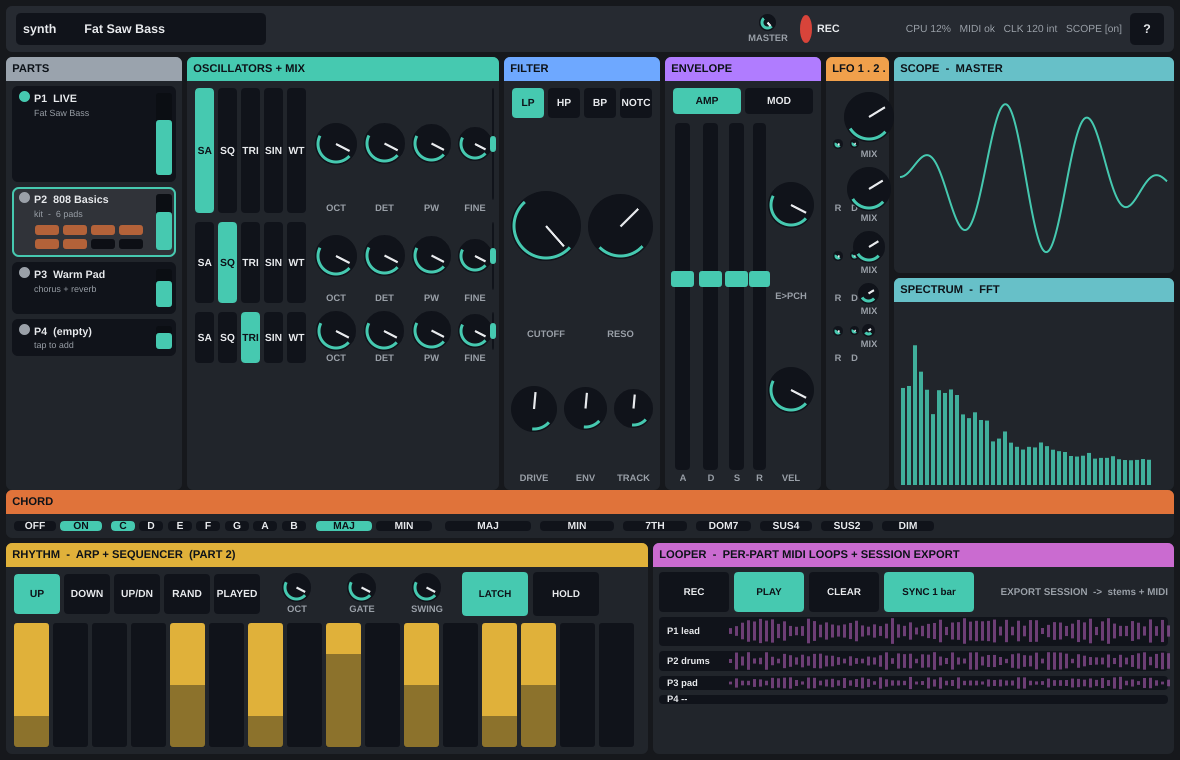
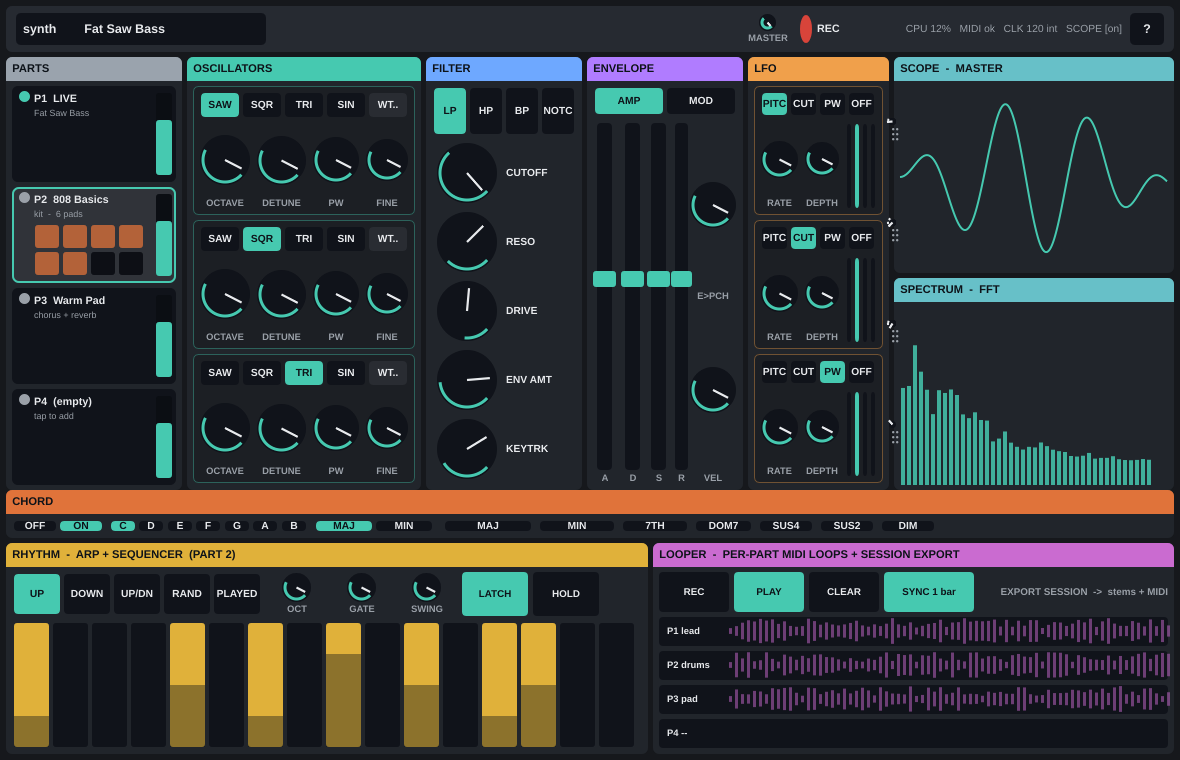
R2 mockup rev4: per-section redesign from sign-off notes
- Parts rail: even-height cells (fixed a shrinking-row bug that recomputed
  height each iteration).
- Oscillators: one sub-box PER oscillator; wave shapes as touch buttons across
  the top (SAW/SQR/TRI/SIN/WT.., WT opens a wavetable picker); OCTAVE/DETUNE/
  PW/FINE knobs below with clearer labels.
- Filter: type buttons 50% taller; all knobs stacked VERTICALLY at equal size
  with labels beside (Cutoff/Reso/Drive/Env Amt/Keytrk).
- Envelope: unchanged.
- LFO: one sub-box PER LFO (like oscillators); DEST selector horizontal across
  the top with full labels (Pitch/Cutoff/PW/Off); Rate/Depth + Shape below.
- FX: reverted to the real draggable panel - Chorus/Delay/Reverb/Width blocks
  (grip handle + on/off) each with their own knobs + NUMERIC values, recoloured
  to match (Chorus rate/depth/mix, Delay time/fbk/png/mix, Reverb size/damp/
  width/mix, Width).
- Chord row, Scope/FFT, RHYTHM sequencer, LOOPER lanes unchanged.
docs/mockup-*.png regenerated.

diff --git a/tests/plugin/test_layout_mockup.cpp b/tests/plugin/test_layout_mockup.cpp
@@ -1,17 +1,22 @@
 // ============================================================================
-// R2 layout MOCKUP (non-functional) - revision 3. Direction from sign-off:
-// denser (more params per section) + creative + more COMPACT synth, freeing real
-// estate for the RHYTHM (arp + 16-step sequencer) and LOOPER (per-part loop lanes)
-// zones. Filled tinted section headers kept. Arrangement: slim top bar; left PART
-// RAIL (P1-P4 + level + kit-pad seam); compact centre in signal-flow order with
-// MORE params visible; right SCOPE + FFT; bottom = CHORD row + substantial RHYTHM
-// + LOOPER zones (shown expanded here to prove the space; collapsed by default at
-// runtime, synth reflows into the freed space). Rendered at default/fullscreen/narrow.
+// R2 layout MOCKUP (non-functional) - revision 4, per detailed sign-off notes:
+//  - Parts rail: even-height cells (fixed a shrinking-row bug).
+//  - Oscillators: subdivided into a box PER OSC; wave shapes as touch buttons across
+//    the top (last = WT, opens a wavetable picker); OCT/DET/PW/FINE knobs below.
+//  - Filter: type buttons 50% taller; all knobs stacked VERTICALLY at equal size.
+//  - Envelope: unchanged (AMP/MOD + ADSR + Env>Pitch/Vel).
+//  - LFO: subdivided into a box PER LFO (like oscillators); DEST selector horizontal
+//    across the top with full labels; Rate/Depth knobs + Shape below.
+//  - FX: reverted to the real draggable panel - Chorus/Delay/Reverb/Width blocks with
+//    their own knobs + NUMERIC values, recoloured to match the UI.
+//  - Chord row, Scope/FFT, RHYTHM sequencer, LOOPER lanes: as before.
+// Rendered at default / fullscreen / narrow.
 // ============================================================================
 #include <catch2/catch_test_macros.hpp>
 #include <juce_gui_basics/juce_gui_basics.h>
 #include "UI/VASynthLookAndFeel.h"
 #include <cmath>
+#include <vector>
 
 #ifndef VASYNTH_DOCS_DIR
  #define VASYNTH_DOCS_DIR "."
@@ -19,7 +24,7 @@
 
 namespace
 {
-    using juce::Rectangle; using juce::Colour; using juce::Graphics;
+    using juce::Rectangle; using juce::Colour; using juce::Graphics; using juce::String;
 
     Colour panel   () { return VASynthLookAndFeel::panel(); }
     Colour panelLt () { return VASynthLookAndFeel::panelLight(); }
@@ -32,10 +37,10 @@ namespace
     Rectangle<int> takeL (Rectangle<int>& r, int w) { auto c = r.removeFromLeft (w); r.removeFromLeft (5); return c; }
     Rectangle<int> takeT (Rectangle<int>& r, int h) { auto c = r.removeFromTop (h);  r.removeFromTop (5);  return c; }
 
-    void clabel (Graphics& g, Rectangle<int> r, const juce::String& t)
+    void clabel (Graphics& g, Rectangle<int> r, const String& t)
     { g.setColour (dim()); g.setFont (juce::Font (juce::FontOptions (10.5f, juce::Font::bold))); g.drawText (t, r, juce::Justification::centred, false); }
 
-    Rectangle<int> section (Graphics& g, Rectangle<int> r, const juce::String& t, Colour tint)
+    Rectangle<int> section (Graphics& g, Rectangle<int> r, const String& t, Colour tint)
     {
         g.setColour (panelLt().darker (0.12f)); g.fillRoundedRectangle (r.toFloat(), 6.0f);
         auto head = r.removeFromTop (24);
@@ -45,10 +50,9 @@ namespace
         return r.reduced (6, 5);
     }
 
-    void knob (Graphics& g, Rectangle<int> r, const juce::String& label, float v = 0.62f)
+    void knobAt (Graphics& g, Rectangle<int> r, float v, int maxD)
     {
-        auto lab = r.removeFromBottom (13);
-        const int d = juce::jmin (juce::jmin (r.getWidth() - 2, r.getHeight() - 2), 96);
+        const int d = juce::jmin (juce::jmin (r.getWidth() - 2, r.getHeight() - 2), maxD);
         auto c = r.withSizeKeepingCentre (d, d).toFloat();
         g.setColour (track()); g.fillEllipse (c);
         const auto ctr = c.getCentre(); const float r0 = c.getWidth() * 0.5f - 3.0f;
@@ -56,10 +60,21 @@ namespace
         juce::Path arc; arc.addCentredArc (ctr.x, ctr.y, r0, r0, 0.0f, a0, a1, true);
         g.setColour (accent()); g.strokePath (arc, juce::PathStrokeType (3.0f));
         g.setColour (ink()); g.drawLine (ctr.x, ctr.y, ctr.x + std::cos (a1 + 1.57f) * r0 * 0.85f, ctr.y + std::sin (a1 + 1.57f) * r0 * 0.85f, 2.2f);
+    }
+    void knob (Graphics& g, Rectangle<int> r, const String& label, float v = 0.62f)
+    { auto lab = r.removeFromBottom (13); knobAt (g, r, v, 92); clabel (g, lab, label); }
+
+    // knob + label + numeric value (FX controls).
+    void knobV (Graphics& g, Rectangle<int> r, const String& label, const String& val, float v)
+    {
+        auto valR = r.removeFromBottom (13); auto lab = r.removeFromBottom (12);
+        knobAt (g, r, v, 58);
         clabel (g, lab, label);
+        g.setColour (accent()); g.setFont (juce::Font (juce::FontOptions (juce::Font::getDefaultMonospacedFontName(), 10.5f, juce::Font::bold)));
+        g.drawText (val, valR, juce::Justification::centred, false);
     }
 
-    void fader (Graphics& g, Rectangle<int> r, const juce::String& label, float v)
+    void fader (Graphics& g, Rectangle<int> r, const String& label, float v)
     {
         auto lab = r.removeFromBottom (13);
         auto col = r.withSizeKeepingCentre (juce::jmin (15, r.getWidth() - 2), r.getHeight() - 4);
@@ -75,16 +90,29 @@ namespace
         for (int i = 0; i < opts.size(); ++i)
         {
             auto cell = Rectangle<int> (r.getX() + i * r.getWidth() / n, r.getY(), r.getWidth() / n, r.getHeight()).reduced (2);
-            g.setColour (i == sel ? accent() : track()); g.fillRoundedRectangle (cell.toFloat(), 4.0f);
+            const bool wt = opts[i].startsWith ("WT");
+            g.setColour (i == sel ? accent() : (wt ? track().brighter (0.12f) : track())); g.fillRoundedRectangle (cell.toFloat(), 4.0f);
             g.setColour (i == sel ? onTint() : ink()); g.setFont (juce::Font (juce::FontOptions (11.5f, juce::Font::bold)));
             g.drawText (opts[i], cell, juce::Justification::centred, false);
         }
     }
-    void toggle (Graphics& g, Rectangle<int> r, const juce::String& t, bool on)
+    void toggle (Graphics& g, Rectangle<int> r, const String& t, bool on)
     {
         g.setColour (on ? accent() : track()); g.fillRoundedRectangle (r.toFloat(), 4.0f);
         g.setColour (on ? onTint() : ink()); g.setFont (juce::Font (juce::FontOptions (11.0f, juce::Font::bold)));
         g.drawText (t, r, juce::Justification::centred, false);
+    }
+    void grip (Graphics& g, Rectangle<int> r)   // drag handle (two columns of dots)
+    {
+        g.setColour (dim());
+        for (int x = 0; x < 2; ++x) for (int y = 0; y < 3; ++y)
+            g.fillEllipse ((float) (r.getCentreX() - 3 + x * 4), (float) (r.getCentreY() - 6 + y * 5), 2.4f, 2.4f);
+    }
+    Rectangle<int> subBox (Graphics& g, Rectangle<int> r, Colour tint)   // an inset box for one osc / lfo
+    {
+        g.setColour (panel()); g.fillRoundedRectangle (r.toFloat(), 5.0f);
+        g.setColour (tint.withAlpha (0.4f)); g.drawRoundedRectangle (r.toFloat().reduced (0.5f), 5.0f, 1.0f);
+        return r.reduced (6, 5);
     }
 
     struct LayoutMockup : public juce::Component
@@ -112,9 +140,8 @@ namespace
             g.setColour (ink()); g.setFont (juce::Font (juce::FontOptions (12.0f, juce::Font::bold))); g.drawText (" REC", rec, juce::Justification::centredLeft, false);
             knob (g, tb.removeFromRight (60), "MASTER", 0.7f);
 
-            // --- BOTTOM WORKSTATION: chord + RHYTHM + LOOPER (substantial) ------
-            auto workH = juce::jmax (250, area.getHeight() * 38 / 100);
-            auto work = area.removeFromBottom (workH);
+            // --- BOTTOM WORKSTATION: chord + RHYTHM + LOOPER -------------------
+            auto work = area.removeFromBottom (juce::jmax (250, area.getHeight() * 38 / 100));
             {
                 auto chord = takeT (work, 48);
                 auto c = section (g, chord, "Chord", tChord);
@@ -129,8 +156,7 @@ namespace
                   selector (g, takeL (ctrls, 250), { "UP","DOWN","UP/DN","RAND","PLAYED" }, 0);
                   knob (g, takeL (ctrls, 60), "OCT"); knob (g, takeL (ctrls, 60), "GATE"); knob (g, takeL (ctrls, 60), "SWING");
                   toggle (g, takeL (ctrls, 66), "LATCH", true); toggle (g, ctrls.removeFromLeft (66), "HOLD", false); }
-                { auto lane = rb;                                   // 16-step grid
-                  const int cells = 16; const int cw = lane.getWidth() / cells;
+                { auto lane = rb; const int cells = 16; const int cw = lane.getWidth() / cells;
                   for (int s = 0; s < cells; ++s)
                   { auto cell = Rectangle<int> (lane.getX() + s * cw, lane.getY(), cw, lane.getHeight()).reduced (2);
                     const bool on = (s % 4 == 0) || s == 6 || s == 10 || s == 13;
@@ -144,31 +170,33 @@ namespace
                   g.setColour (dim()); g.setFont (juce::Font (juce::FontOptions (11.0f, juce::Font::bold)));
                   g.drawText ("EXPORT SESSION  ->  stems + MIDI", bar, juce::Justification::centredRight, false); }
                 const char* lanes[] { "P1 lead", "P2 drums", "P3 pad", "P4 --" };
+                const int lh = (lb.getHeight() - 3 * 5) / 4;
                 for (int i = 0; i < 4; ++i)
-                { auto lane = takeT (lb, (lb.getHeight() - 3 * 5) / 4);
+                { auto lane = takeT (lb, lh);
                   g.setColour (track()); g.fillRoundedRectangle (lane.toFloat(), 4.0f);
                   g.setColour (ink()); g.setFont (juce::Font (juce::FontOptions (10.5f, juce::Font::bold)));
                   g.drawText (lanes[i], lane.removeFromLeft (70).withTrimmedLeft (8), juce::Justification::centredLeft, false);
                   if (i < 3) { g.setColour (tLoop.withAlpha (0.5f)); juce::Random rr (i + 3);
                     for (int x = 0; x < lane.getWidth(); x += 6) { float h = lane.getHeight() * (0.2f + 0.7f * rr.nextFloat());
-                      g.fillRect (Rectangle<float> ((float) (lane.getX() + x), lane.getCentreY() - h/2, 3.0f, h)); } } }
+                      g.fillRect (Rectangle<float> ((float) (lane.getX() + x), lane.getCentreY() - h / 2, 3.0f, h)); } } }
             }
 
-            // --- left PART RAIL -------------------------------------------------
+            // --- left PART RAIL (even-height cells) -----------------------------
             auto rail = takeL (area, 176);
             {
                 auto rl = section (g, rail, "Parts", tParts);
                 const char* pn[]  { "P1  LIVE", "P2  808 Basics", "P3  Warm Pad", "P4  (empty)" };
                 const char* sub[] { "Fat Saw Bass", "kit  -  6 pads", "chorus + reverb", "tap to add" };
+                const int cellH = (rl.getHeight() - 3 * 5) / 4;      // ONE height -> even cells
                 for (int i = 0; i < 4; ++i)
                 {
-                    auto cell = takeT (rl, (rl.getHeight() - 15) / 4);
+                    auto cell = takeT (rl, cellH);
                     const bool selp = i == 1;
                     g.setColour (selp ? track().brighter (0.16f) : track()); g.fillRoundedRectangle (cell.toFloat(), 6.0f);
                     if (selp) { g.setColour (accent()); g.drawRoundedRectangle (cell.toFloat().reduced (1), 6.0f, 2.0f); }
                     auto lvl = cell.removeFromRight (24).reduced (4, 7);
                     g.setColour (track().darker (0.35f)); g.fillRoundedRectangle (lvl.toFloat(), 3.0f);
-                    g.setColour (accent()); g.fillRoundedRectangle (lvl.withTrimmedTop (lvl.getHeight()/3).toFloat(), 3.0f);
+                    g.setColour (accent()); g.fillRoundedRectangle (lvl.withTrimmedTop (lvl.getHeight() / 3).toFloat(), 3.0f);
                     auto body = cell.reduced (7, 5);
                     g.setColour (i == 0 ? accent() : dim()); g.fillEllipse (body.removeFromLeft (11).removeFromTop (11).toFloat());
                     g.setColour (ink()); g.setFont (juce::Font (juce::FontOptions (12.0f, juce::Font::bold)));
@@ -194,51 +222,74 @@ namespace
                   g.setColour (accent().withAlpha (0.85f)); g.fillRect (Rectangle<float> ((float)(fb.getX()+b*bw+1), fb.getBottom()-h, bw-2.0f, h)); }
             }
 
-            // --- centre synth, COMPACT + dense (more params) --------------------
+            // --- centre synth --------------------------------------------------
             auto centre = area;
             const int u = juce::jmax (78, (centre.getWidth() - 4 * 5) / 13);
 
-            { auto s = section (g, takeL (centre, u * 4), "Oscillators + Mix", tOsc);   // 3 rows x 6 params
-              for (int i = 0; i < 3; ++i) { auto row = takeT (s, (s.getHeight() - 10) / 3);
-                selector (g, takeL (row, 116), { "SAW","SQR","TRI","SIN","WT" }, i);
-                for (auto* l : { "OCT","DET","PW","FINE" }) knob (g, takeL (row, row.getWidth()/(l[0]=='O'?4:l[0]=='D'?3:l[0]=='P'?2:1)), l);
-                fader (g, row.removeFromLeft (0).withWidth (0), "", 0.5f); } }
+            // OSCILLATORS: one sub-box per osc; wave buttons across top, knobs below.
+            { auto s = section (g, takeL (centre, u * 3), "Oscillators", tOsc);
+              const int bh = (s.getHeight() - 2 * 5) / 3;
+              for (int i = 0; i < 3; ++i)
+              { auto box = subBox (g, takeT (s, bh), tOsc);
+                selector (g, takeT (box, 28), { "SAW","SQR","TRI","SIN","WT.." }, i);
+                for (auto* l : { "OCTAVE","DETUNE","PW","FINE" }) knob (g, takeL (box, box.getWidth()/(l[0]=='O'?4:l[0]=='D'?3:l[1]=='W'?2:1)), l); } }
 
+            // FILTER: type buttons 50% taller; all knobs stacked vertically, equal size.
             { auto s = section (g, takeL (centre, u * 2), "Filter", tFilt);
-              selector (g, takeT (s, 34), { "LP","HP","BP","NOTCH" }, 0);
-              auto r1 = takeT (s, s.getHeight() * 3 / 5);
-              knob (g, takeL (r1, r1.getWidth()/2), "CUTOFF", 0.7f); knob (g, r1, "RESO", 0.35f);
-              for (auto* l : { "DRIVE","ENV","TRACK" }) knob (g, takeL (s, s.getWidth()/(l[0]=='D'?3:l[0]=='E'?2:1)), l, 0.2f); }
+              selector (g, takeT (s, 50), { "LP","HP","BP","NOTCH" }, 0);   // 50% taller
+              const char* fk[] { "CUTOFF","RESO","DRIVE","ENV AMT","KEYTRK" };
+              const float fv[] { 0.7f, 0.35f, 0.2f, 0.5f, 0.4f };
+              const int kh = (s.getHeight() - 4 * 5) / 5;
+              for (int i = 0; i < 5; ++i) { auto row = takeT (s, kh);
+                knobAt (g, row.removeFromLeft (kh + 6), fv[i], 60);
+                g.setColour (ink()); g.setFont (juce::Font (juce::FontOptions (11.5f, juce::Font::bold)));
+                g.drawText (fk[i], row.withTrimmedLeft (4), juce::Justification::centredLeft, false); } }
 
+            // ENVELOPE: unchanged.
             { auto s = section (g, takeL (centre, u * 2), "Envelope", tEnv);
               selector (g, takeT (s, 30), { "AMP","MOD" }, 0);
               auto kk = s.removeFromRight (s.getWidth() * 2 / 6);
               for (auto* l : { "A","D","S","R" }) fader (g, takeL (s, s.getWidth()/(l[0]=='A'?4:l[0]=='D'?3:l[0]=='S'?2:1)), l, 0.55f);
               knob (g, takeT (kk, kk.getHeight()/2), "E>PCH"); knob (g, kk, "VEL"); }
 
-            { auto s = section (g, takeL (centre, u * 3), "LFO 1 . 2 . 3", tLfo);        // 3 rows x 4 params
-              for (int i = 0; i < 3; ++i) { auto row = takeT (s, (s.getHeight() - 10) / 3);
-                knob (g, takeL (row, row.getWidth()/4), "RATE"); knob (g, takeL (row, row.getWidth()/3), "DEP");
-                selector (g, takeL (row, row.getWidth()/2), { "TRI","SIN","SQR","S&H" }, 1);
-                selector (g, row, { "PCH","CUT","PW","OFF" }, i); } }
+            // LFO: one sub-box per LFO; DEST selector horizontal across the top, knobs below.
+            { auto s = section (g, takeL (centre, u * 3), "LFO", tLfo);
+              const int bh = (s.getHeight() - 2 * 5) / 3;
+              for (int i = 0; i < 3; ++i)
+              { auto box = subBox (g, takeT (s, bh), tLfo);
+                selector (g, takeT (box, 26), { "PITCH","CUTOFF","PW","OFF" }, i);
+                knob (g, takeL (box, box.getWidth()/3), "RATE"); knob (g, takeL (box, box.getWidth()/2), "DEPTH");
+                selector (g, box, { "TRI","SIN","SQR","S&H" }, 1); } }
 
-            { auto s = section (g, centre, "FX  -  drag to reorder", tFx);              // 5 blocks + on/off
-              const char* fx[] { "CHORUS","DELAY","REVERB","WIDTH","EQ" };
-              for (int i = 0; i < 5; ++i) { auto row = takeT (s, (s.getHeight() - 20) / 5);
+            // FX: real draggable panel - Chorus / Delay / Reverb / Width, knobs + values.
+            { auto s = section (g, centre, "FX  -  drag to reorder", tFx);
+              struct K { const char* l; const char* v; float p; };
+              struct B { const char* name; bool on; std::vector<K> k; };
+              std::vector<B> blocks = {
+                { "CHORUS", true,  { { "RATE","0.80",0.6f }, { "DEPTH","0.50",0.5f }, { "MIX","0.50",0.5f } } },
+                { "DELAY",  true,  { { "TIME","300ms",0.5f }, { "FBK","0.35",0.35f }, { "PNG","1.0",0.7f }, { "MIX","0.35",0.35f } } },
+                { "REVERB", true,  { { "SIZE","0.50",0.5f }, { "DAMP","0.50",0.5f }, { "WIDTH","1.0",0.6f }, { "MIX","0.30",0.3f } } },
+                { "WIDTH",  false, { { "WIDTH","1.40",0.7f } } } };
+              const int bh = (s.getHeight() - 3 * 5) / 4;
+              for (auto& b : blocks)
+              { auto row = takeT (s, bh);
                 g.setColour (track()); g.fillRoundedRectangle (row.toFloat(), 5.0f);
-                auto t = row.removeFromLeft (28).reduced (5); g.setColour (i < 3 ? accent() : dim()); g.fillRoundedRectangle (t.toFloat(), 3.0f);
-                g.setColour (ink()); g.setFont (juce::Font (juce::FontOptions (12.0f, juce::Font::bold)));
-                g.drawText (fx[i], row.removeFromLeft (row.getWidth() - 52).withTrimmedLeft (6), juce::Justification::centredLeft, false);
-                knob (g, row, "MIX", 0.4f); } }
+                grip (g, row.removeFromLeft (16));
+                auto lead = row.removeFromLeft (66);
+                toggle (g, lead.removeFromTop (lead.getHeight()/2).reduced (2), b.name, b.on);
+                g.setColour (dim()); g.setFont (juce::Font (juce::FontOptions (9.5f))); g.drawText ("on/off", lead.reduced (2), juce::Justification::centred, false);
+                const int kw = row.getWidth() / (int) b.k.size();
+                for (auto& kn : b.k) knobV (g, takeL (row, kw - 5), kn.l, kn.v, kn.p); }
+            }
         }
     };
 
-    void render (int w, int h, const juce::String& name)
+    void render (int w, int h, const String& name)
     {
         LayoutMockup m; m.setSize (w, h);
         auto img = m.createComponentSnapshot (m.getLocalBounds(), false, 1.0f);
         REQUIRE (img.isValid());
-        juce::File out (juce::String (VASYNTH_DOCS_DIR) + "/" + name);
+        juce::File out (String (VASYNTH_DOCS_DIR) + "/" + name);
         out.deleteFile();
         juce::FileOutputStream os (out); REQUIRE (os.openedOk());
         juce::PNGImageFormat png; REQUIRE (png.writeImageToStream (img, os));
